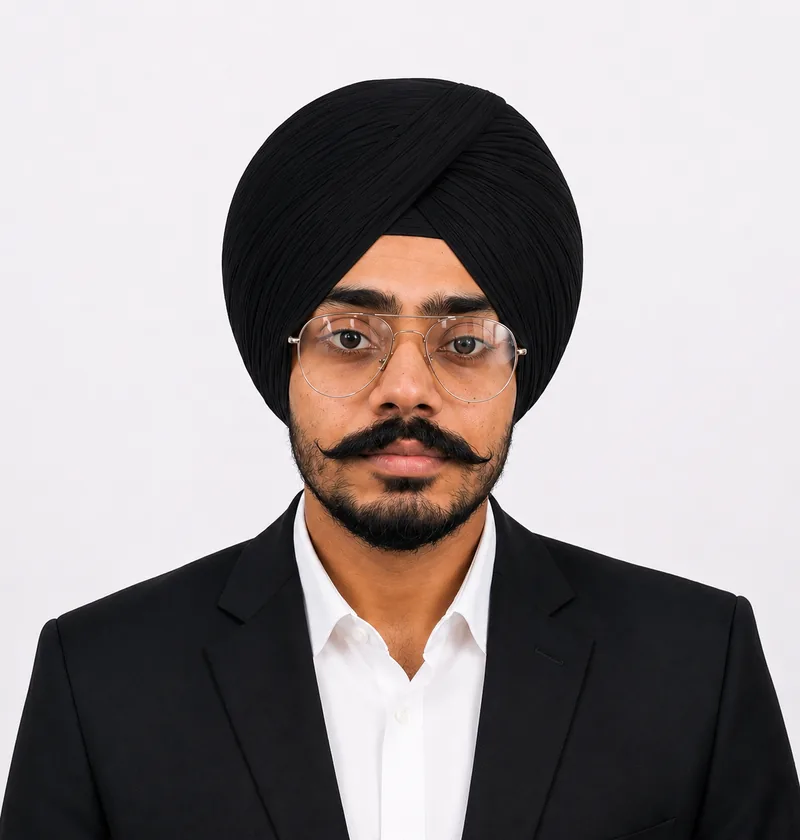
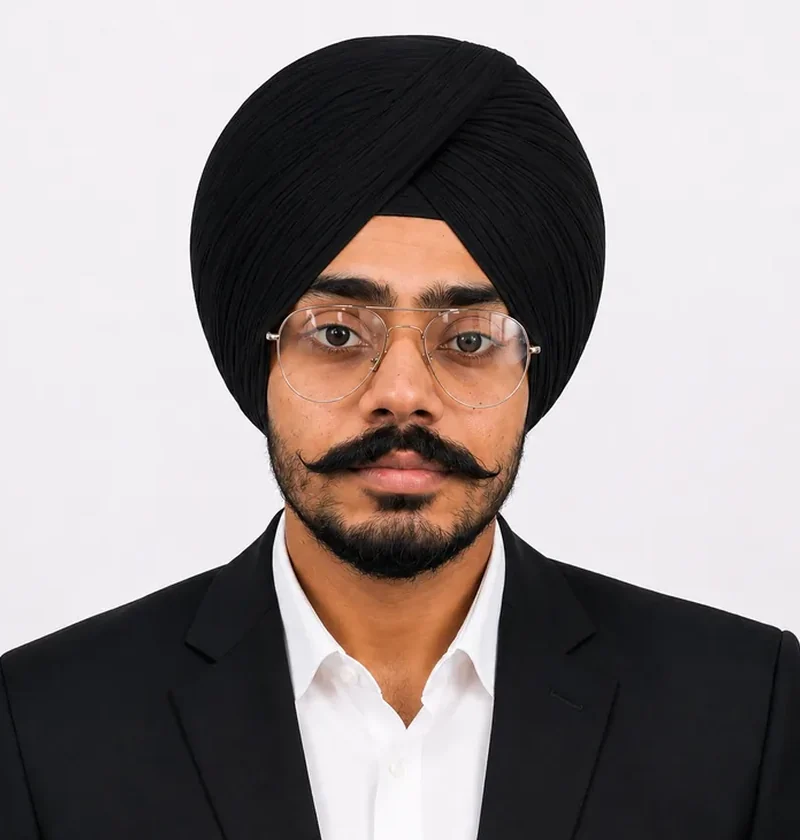
About page: full names for Karishma, Jaswinder and Himanshu, Jaswinder's photo, team faces aligned to one size and eye line, turbans no longer cut off

diff --git a/about.html b/about.html
@@ -179,14 +179,14 @@
 
         <ul class="leaders__grid" role="list">
           <li class="member member--leader" data-reveal>
-            <img src="assets/img/team/yuvraj-singh.webp" alt="Ar. Yuvraj Singh" loading="lazy" decoding="async">
+            <img src="assets/img/team/yuvraj-singh.webp?v=3" alt="Ar. Yuvraj Singh" loading="lazy" decoding="async">
             <div class="member__info">
               <h3 class="member__name">Ar. Yuvraj Singh</h3>
               <p class="member__role">Principal Architect</p>
             </div>
           </li>
           <li class="member member--leader" data-reveal>
-            <img src="assets/img/team/jasdeep-singh.webp" alt="Jasdeep Singh" loading="lazy" decoding="async">
+            <img src="assets/img/team/jasdeep-singh.webp?v=3" alt="Jasdeep Singh" loading="lazy" decoding="async">
             <div class="member__info">
               <h3 class="member__name">Jasdeep Singh</h3>
               <p class="member__role">MD / Operations Head</p>
@@ -209,91 +209,91 @@
 
         <ul class="team__grid" role="list">
           <li class="member" data-reveal style="--i: 0">
-            <img src="assets/img/team/karishma.webp" alt="Karishma" loading="lazy" decoding="async">
+            <img src="assets/img/team/karishma.webp?v=3" alt="Karishma Vashishtha" loading="lazy" decoding="async">
             <div class="member__info">
-              <h3 class="member__name">Karishma</h3>
+              <h3 class="member__name">Karishma Vashishtha</h3>
               <p class="member__role">Architect</p>
             </div>
           </li>
           <li class="member" data-reveal style="--i: 1">
-            <img src="assets/img/team/sumit-kumar.webp" alt="Sumit Kumar" loading="lazy" decoding="async">
+            <img src="assets/img/team/sumit-kumar.webp?v=3" alt="Sumit Kumar" loading="lazy" decoding="async">
             <div class="member__info">
               <h3 class="member__name">Sumit Kumar</h3>
               <p class="member__role">Senior Designer</p>
             </div>
           </li>
           <li class="member" data-reveal style="--i: 2">
-            <img src="assets/img/team/gargi-koul.webp?v=2" alt="Gargi Koul" loading="lazy" decoding="async">
+            <img src="assets/img/team/gargi-koul.webp?v=3" alt="Gargi Koul" loading="lazy" decoding="async">
             <div class="member__info">
               <h3 class="member__name">Gargi Koul</h3>
               <p class="member__role">Jr. Architect</p>
             </div>
           </li>
           <li class="member" data-reveal style="--i: 3">
-            <img src="assets/img/team/khushi-jaiswal.webp" alt="Khushi Jaiswal" loading="lazy" decoding="async">
+            <img src="assets/img/team/khushi-jaiswal.webp?v=3" alt="Khushi Jaiswal" loading="lazy" decoding="async">
             <div class="member__info">
               <h3 class="member__name">Khushi Jaiswal</h3>
               <p class="member__role">Intern Architect</p>
             </div>
           </li>
           <li class="member" data-reveal style="--i: 4">
-            <img src="assets/img/team/saksham-jain.webp" alt="Saksham Jain" loading="lazy" decoding="async">
+            <img src="assets/img/team/saksham-jain.webp?v=4" alt="Saksham Jain" loading="lazy" decoding="async">
             <div class="member__info">
               <h3 class="member__name">Saksham Jain</h3>
               <p class="member__role">3D Visualiser</p>
             </div>
           </li>
           <li class="member" data-reveal style="--i: 0">
-            <img src="assets/img/team/satnam-singh.webp" alt="Satnam Singh" loading="lazy" decoding="async">
+            <img src="assets/img/team/satnam-singh.webp?v=4" alt="Satnam Singh" loading="lazy" decoding="async">
             <div class="member__info">
               <h3 class="member__name">Satnam Singh</h3>
               <p class="member__role">Project Manager</p>
             </div>
           </li>
           <li class="member" data-reveal style="--i: 1">
-            <img src="assets/img/team/charanjeet-singh.webp" alt="Charanjeet Singh" loading="lazy" decoding="async">
+            <img src="assets/img/team/charanjeet-singh.webp?v=4" alt="Charanjeet Singh" loading="lazy" decoding="async">
             <div class="member__info">
               <h3 class="member__name">Charanjeet Singh</h3>
               <p class="member__role">Civil Engineer</p>
             </div>
           </li>
-          <li class="member member--nophoto" data-reveal style="--i: 2">
-            <span class="member__initial" aria-hidden="true">J</span><!-- photo to come -->
+          <li class="member" data-reveal style="--i: 2">
+            <img src="assets/img/team/jaswinder-singh.webp?v=3" alt="Jaswinder Singh" loading="lazy" decoding="async">
             <div class="member__info">
-              <h3 class="member__name">Jaswinder</h3>
+              <h3 class="member__name">Jaswinder Singh</h3>
               <p class="member__role">Site Supervisor</p>
             </div>
           </li>
           <li class="member" data-reveal style="--i: 3">
-            <img src="assets/img/team/dalijit-singh.webp" alt="Dalijit Singh" loading="lazy" decoding="async">
+            <img src="assets/img/team/dalijit-singh.webp?v=4" alt="Dalijit Singh" loading="lazy" decoding="async">
             <div class="member__info">
               <h3 class="member__name">Dalijit Singh</h3>
               <p class="member__role">Electrician</p>
             </div>
           </li>
           <li class="member" data-reveal style="--i: 4">
-            <img src="assets/img/team/himanshu.webp" alt="Himanshu" loading="lazy" decoding="async">
+            <img src="assets/img/team/himanshu.webp?v=3" alt="Himanshu Sabherwal" loading="lazy" decoding="async">
             <div class="member__info">
-              <h3 class="member__name">Himanshu</h3>
+              <h3 class="member__name">Himanshu Sabherwal</h3>
               <p class="member__role">Civil Engineer</p>
             </div>
           </li>
           <li class="member" data-reveal style="--i: 0">
-            <img src="assets/img/team/harsimran-kaur.webp" alt="Harsimran Kaur" loading="lazy" decoding="async">
+            <img src="assets/img/team/harsimran-kaur.webp?v=3" alt="Harsimran Kaur" loading="lazy" decoding="async">
             <div class="member__info">
               <h3 class="member__name">Harsimran Kaur</h3>
               <p class="member__role">HR Manager</p>
             </div>
           </li>
           <li class="member" data-reveal style="--i: 1">
-            <img src="assets/img/team/simranjit.webp" alt="Simranjit" loading="lazy" decoding="async">
+            <img src="assets/img/team/simranjit.webp?v=3" alt="Simranjit" loading="lazy" decoding="async">
             <div class="member__info">
               <h3 class="member__name">Simranjit</h3>
               <p class="member__role">Sales Executive</p>
             </div>
           </li>
           <li class="member" data-reveal style="--i: 2">
-            <img src="assets/img/team/tanvi-chanana.webp?v=2" alt="Tanvi Chanana" loading="lazy" decoding="async">
+            <img src="assets/img/team/tanvi-chanana.webp?v=3" alt="Tanvi Chanana" loading="lazy" decoding="async">
             <div class="member__info">
               <h3 class="member__name">Tanvi Chanana</h3>
               <p class="member__role">Digital Marketing</p>
